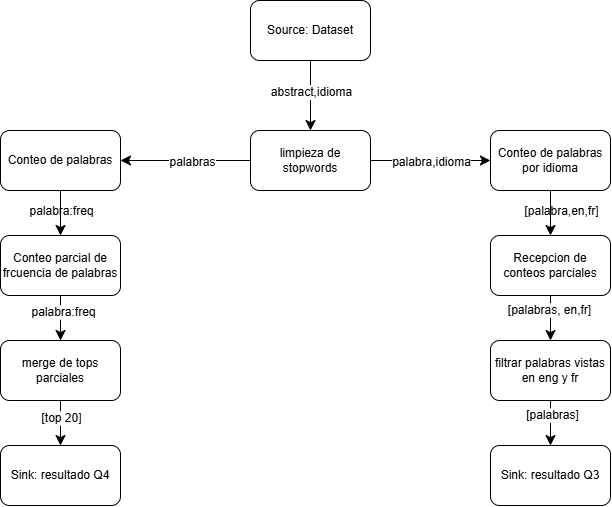
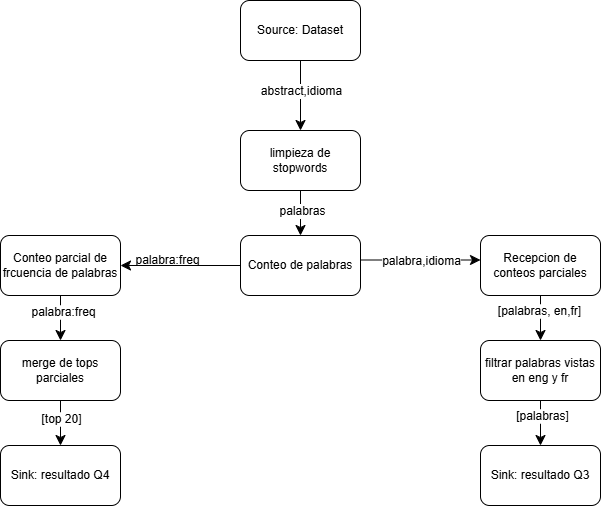
arquitectura actualizada

diff --git a/diseño/ARQUITECTURA.md b/diseño/ARQUITECTURA.md
@@ -59,7 +59,7 @@ Se extrae la fecha, url y url de imagen de cada articulo para responder las quer
 
 ![DAG de Q3 y Q4](diagramas/DAG_Q3y4.png)
 
-El abstract de cada artículo se limpia (se sacan las stopwords) y se cuentan sus palabras por idioma. Esos conteos parciales se suman entre todos los artículos y se obtienen las 20 palabras más usadas (Q4) y las palabras que aparecen en inglés y en francés (Q3).
+El abstract de cada artículo se limpia (se sacan las stopwords) y se registran sus palabras, conciderando idioma para Q3. Esos conteos parciales se suman entre todos los artículos y se obtienen las 20 palabras más usadas (Q4) y las palabras que aparecen en inglés y en francés (Q3).
 
 ### 4.3 Cálculo del promedio y filtrado por largo de abstract (Q5)
 
@@ -76,13 +76,13 @@ Aquí mostramos cómo se comporta el sistema mientras corre: qué pasa y en qué
 
 ![Diagrama de actividades](diagramas/actividades.png)
 
-Como los datos de un cliente se reparten entre varias réplicas, hay que saber cuándo se terminaron todos. Lo mostramos con el `Word aggregator`, que es stateful: recibe los conteos de los `Word sum` y envía al `Word joiner`. El `Word sum`, al ser stateless, no espera a que terminen los `Parser`: envía los conteos de cada lote apenas los calcula y, cada vez que le llega el mensaje de fin (EOF) de un `Parser`, lo reenvía a cada réplica de `Word aggregator`. Cada réplica lo recibe por su propia cola, detrás de los datos, y registra los EOF que llegaron para ese cliente. Cuando llegaron todos (uno por cada par `Parser`–`Word sum`), envía su top 20 parcial y un EOF al `Word joiner`, y libera el estado de ese cliente. El resto de los controles stateful siguen el mismo esquema, cambiando el mecanismo de envío según la tabla de la sección 7.1.
+Como los datos de un cliente se reparten entre varias réplicas, hay que saber cuándo se terminaron todos. Lo mostramos con el `Q4 joiner`, que es stateful: recibe los conteos de los `Q4 aggregator` y envía al `Gateway`. El `Q4 aggregator`, es una , y libera el estado de ese cliente. El resto de los controles stateful siguen el mismo esquema, cambiando el mecanismo de envío según la tabla de la sección 7.1.
 
 ### 5.2 Interacción entre el cliente y el sistema
 
 ![Secuencia general](diagramas/secuencia_gral.png)
 
-El diagrama cómo se comunica un cliente con el sistema y en qué momento recibe cada resultado. Al conectarse, el `Gateway` le asigna un `client_id`, que acompaña a todos sus mensajes dentro del sistema. El cliente envía los artículos en lotes y el `Gateway` los reenvía al sistema. Mientras el cliente sigue enviando, ya pueden volver resultados de Q1 y Q2, porque se resuelven artículo por artículo. Cuando el cliente termina, envía un EOF, que el `Gateway` propaga al sistema. Después de eso se completan los resultados de Q1 y Q2, y llegan los de Q3, Q4 y Q5, que necesitan todos los datos para calcularse. Cuando llegaron las 5 consultas, el `Gateway` le avisa al cliente que terminó.
+El diagrama cómo se comunica un cliente con el sistema y en qué momento recibe cada resultado. Al conectarse, el `Gateway` le asigna un `client_id`, que acompaña a todos sus mensajes dentro del sistema. El cliente envía los artículos en lotes y el `Gateway` los reenvía al sistema. Mientras el cliente sigue enviando, ya pueden volver resultados de Q1, Q2 y Q3, porque se resuelven artículo por artículo y en el caso de Q3 no se necesita el procesamiento de la totalidad de los datos para el envío de resultados. Cuando el cliente termina, envía un EOF, que el `Gateway` propaga al sistema. Después de eso se completan los resultados de Q1, Q2 y Q3, y llegan los de Q4 y Q5, que necesitan todos los datos para calcular. Cuando llegaron las 5 consultas, el `Gateway` le avisa al cliente que terminó.
 
 ## 6. Vista de desarrollo
 
@@ -92,7 +92,7 @@ En esta vista mostramos cómo se organiza le código.
 ![Diagrama de paquetes](diagramas/paquetes.png)
 
 - **`client` y `gateway`** son las dos aplicaciones de entrada y salida.
-- **`controls`** agrupa los 7 controles restantes. Cada uno es una aplicación con su propio `Dockerfile`.
+- **`controls`** agrupa los 8 controles restantes. Cada uno es una aplicación con su propio `Dockerfile`.
 - **`middleware`** oculta RabbitMQ. Sus clases definen cómo se envía y recibe de una cola o de un exchange.
 - **`message_protocol`** define el formato de los mensajes: `external` (entre cliente y gateway) e `internal` (entre controles).
 
@@ -115,27 +115,21 @@ Muestra los controles, las colas entre ellos y el camino de cada consulta.
 | **Parser** | Lee cada artículo, lo clasifica y lo reparte según la consulta | varias | Ninguno |
 | **Image downloader** | Descarga las imágenes de Wikimedia (Q2) | varias | Ninguno |
 | **Word sum** | Cuenta las palabras de cada abstract (Q3, Q4) y envía los largos de abstract (Q5) | varias | Ninguno |
-| **Word aggregator** | Suma los conteos de palabras de todos los word sum | varias | se almacenan en la memoria RAM los conteos de palabras y registros de EOF |
-| **Word joiner** | Une los resultados parciales y arma Q3 y Q4 | 1 | Se mantienen en un storage las sumas parciales de los aggregators hasta obtener todos los conteos parciales de los aggregator |
-| **Word counter** | Suma los largos de los abstracts viejos, para el promedio de Q5 | varias |se almacenan en la memoria RAM la suma de los largos de abstracts y registros de EOF |
-| **Q5 joiner** | Calcula el promedio y decide qué artículos nuevos cumplen Q5 | 1 | Se mantienen en RAM las sumas parciales de los largos y se almacena la informacion de los articulos a ser filtrados una vez obtenido el promedio|
+| **Q3 aggregator** | Suma los conteos de palabras de los word sum verificando el idioma del articulo y buscando coincidencias para enviar resultados Q3 al gateway | varias | se almacenan en la memoria RAM los registros de EOF y los conteos de palabras se almacenan en RAM y en un storage |
+| **Q4 aggregator** | Suma los conteos de palabras de todos los word sum, una vez recibidos los EOF de la combinacion WordsumxParser envia su top parcial al Q4 joiner| varias | se almacenan en la memoria RAM los registros de EOF y los conteos de palabras se almacenan en RAM y en un storage |
+| **Q4 joiner** | Une los resultados parciales y arma el top de palabras final de Q4 | 1 | se mantienen en RAM las combinaciones de los top parciales y los EOF recibidos|
+| **Word counter** | Suma los largos de los abstracts viejos y envia resultados de sumas parciales al Q5 joiner | varias |se almacenan en la memoria RAM la suma de los largos de abstracts y registros de EOF |
+| **Q5 joiner** | Calcula el promedio y decide qué artículos nuevos cumplen Q5 | 1 | Se mantienen en RAM las sumas parciales de los largos y se almacena en Storage la informacion de los articulos a ser filtrados una vez obtenido el promedio global|
 
-### Comunicación entre controles
+### Middleware basado en grupos
 
- La siguiente tabla resume los mecanismos utilizados para cada comunicación entre las entidades del sistema.
+### Middleware basado en grupos
 
-| Emisor | Receptor | Mecanismo de comunicación |
-|---|---|---|
-| Cliente | Gateway | TCP |
-| Gateway | Parsers | Colas de RabbitMQ, con una cola entre el Gateway y cada parser. |
-| Parsers | Word_sums | Exchange de RabbitMQ, al que cada instancia de word_sum se suscribe mediante una routing key que la representa. |
-| Parsers | Image_downloaders | Exchange de RabbitMQ, al que cada instancia de Image_downloader se suscribe mediante una routing key que la representa |
-| Word_sums | Word_aggregator | Exchange de RabbitMQ, al que cada instancia de Word_aggregator se suscribe mediante una routing key que la representa. |
-| Word_aggregator | Word_joiner | Cola compartida de RabbitMQ, a la que publican los emisores y desde la que consume el receptor. |
-| Word_sums | Word_counter | Exchange de RabbitMQ, al que cada instancia de Word_counter se suscribe mediante una routing key que la representa |
-| Word_sums | Q5Joiner | Cola compartida de RabbitMQ, a la que publican los emisores y desde la que consume el receptor. |
-| Word_counter | Q5Joiner | Cola compartida de RabbitMQ, a la que publican los emisores y desde la que consume el receptor. |
-| Worker | Gateway | Cola compartida de RabbitMQ, a la que publican los emisores y desde la que consume el receptor. |
+El sistema utiliza un middleware basado en grupos para abstraer la comunicación entre las distintas instancias de los componentes. Cada grupo se implementa mediante un exchange de tipo `direct` en RabbitMQ identificado por nombre de grupo. Se puede crear una entidad `GroupSender`que publican mensajes en el exchange y `GroupMember` que consumen mensajes del mismo. Cada miembro posee una cola identificada por el string "{group_name}.{member_id}", siendo `member_id` el ID que identifica a esa entidad.
+
+El middleware proporciona tres formas principales de comunicación: `send` que distribuye mensajes entre los miembros mediante round-robin, `broadcast` que envía un mensaje a todos los miembros, y `send_partitioned` que distribuye los datos según una clave utilizando `CRC32(key) % group_size`. Esta última permite garantizar que un mismo valor siempre sea procesada por el mismo miembro del grupo, incluso cuando los datos provienen de distintos emisores.
+
+En el sistema, `send_partitioned` se utiliza principalmente en Q3 y Q4 para distribuir las palabras entre los Aggregators. Por otro lado, `broadcast` se utiliza para propagar mensajes de control como los EOF, que deben ser recibidos por todos los miembros correspondientes y `send` se utiliza en las comunicaciones en las que se necesita distribuir la carga de processamiento (en todas las demas menos en wordsum -> Q3_aggregator y wordsum -> Q4_aggregator).
 
 ### 7.2 Distribución de los procesos en nodos
 
@@ -150,7 +144,7 @@ Cada control corre en su propio contenedor Docker. Los contenedores solo se comu
 Cómo escala el sistema:
 
 - **Cantidad de clientes:** todos usan las mismas colas y el `client_id` mantiene separados sus datos. Cada control guarda su estado por cliente y lo libera cuando ese cliente termina.
-- **Cantidad de datos:** los datos se procesan de a lotes y cada etapa reduce lo que pasa a la siguiente. Por ejemplo, el `word sum` envía conteos de palabras y no los abstracts completos, y cada `word aggregator` envía al `word joiner` solo su top 20, evitando que algún proceso necesite cargar todo en memoria.
+- **Cantidad de datos:** los datos se procesan de a lotes y cada etapa reduce lo que pasa a la siguiente. Por ejemplo, el `word sum` envía conteos de palabras y no los abstracts completos, y cada `Q4 aggregator` envía al `Q4 joiner` solo su top 20, evitando que algún proceso necesite cargar todo en memoria.
 - **Cantidad de réplicas:** A mayor cantidad de réplicas, mayor distribución del procesamiento en cada etapa, a costa de mayor cantidad de mensajes para coordinar el fin de cada estapa. 
 
 
